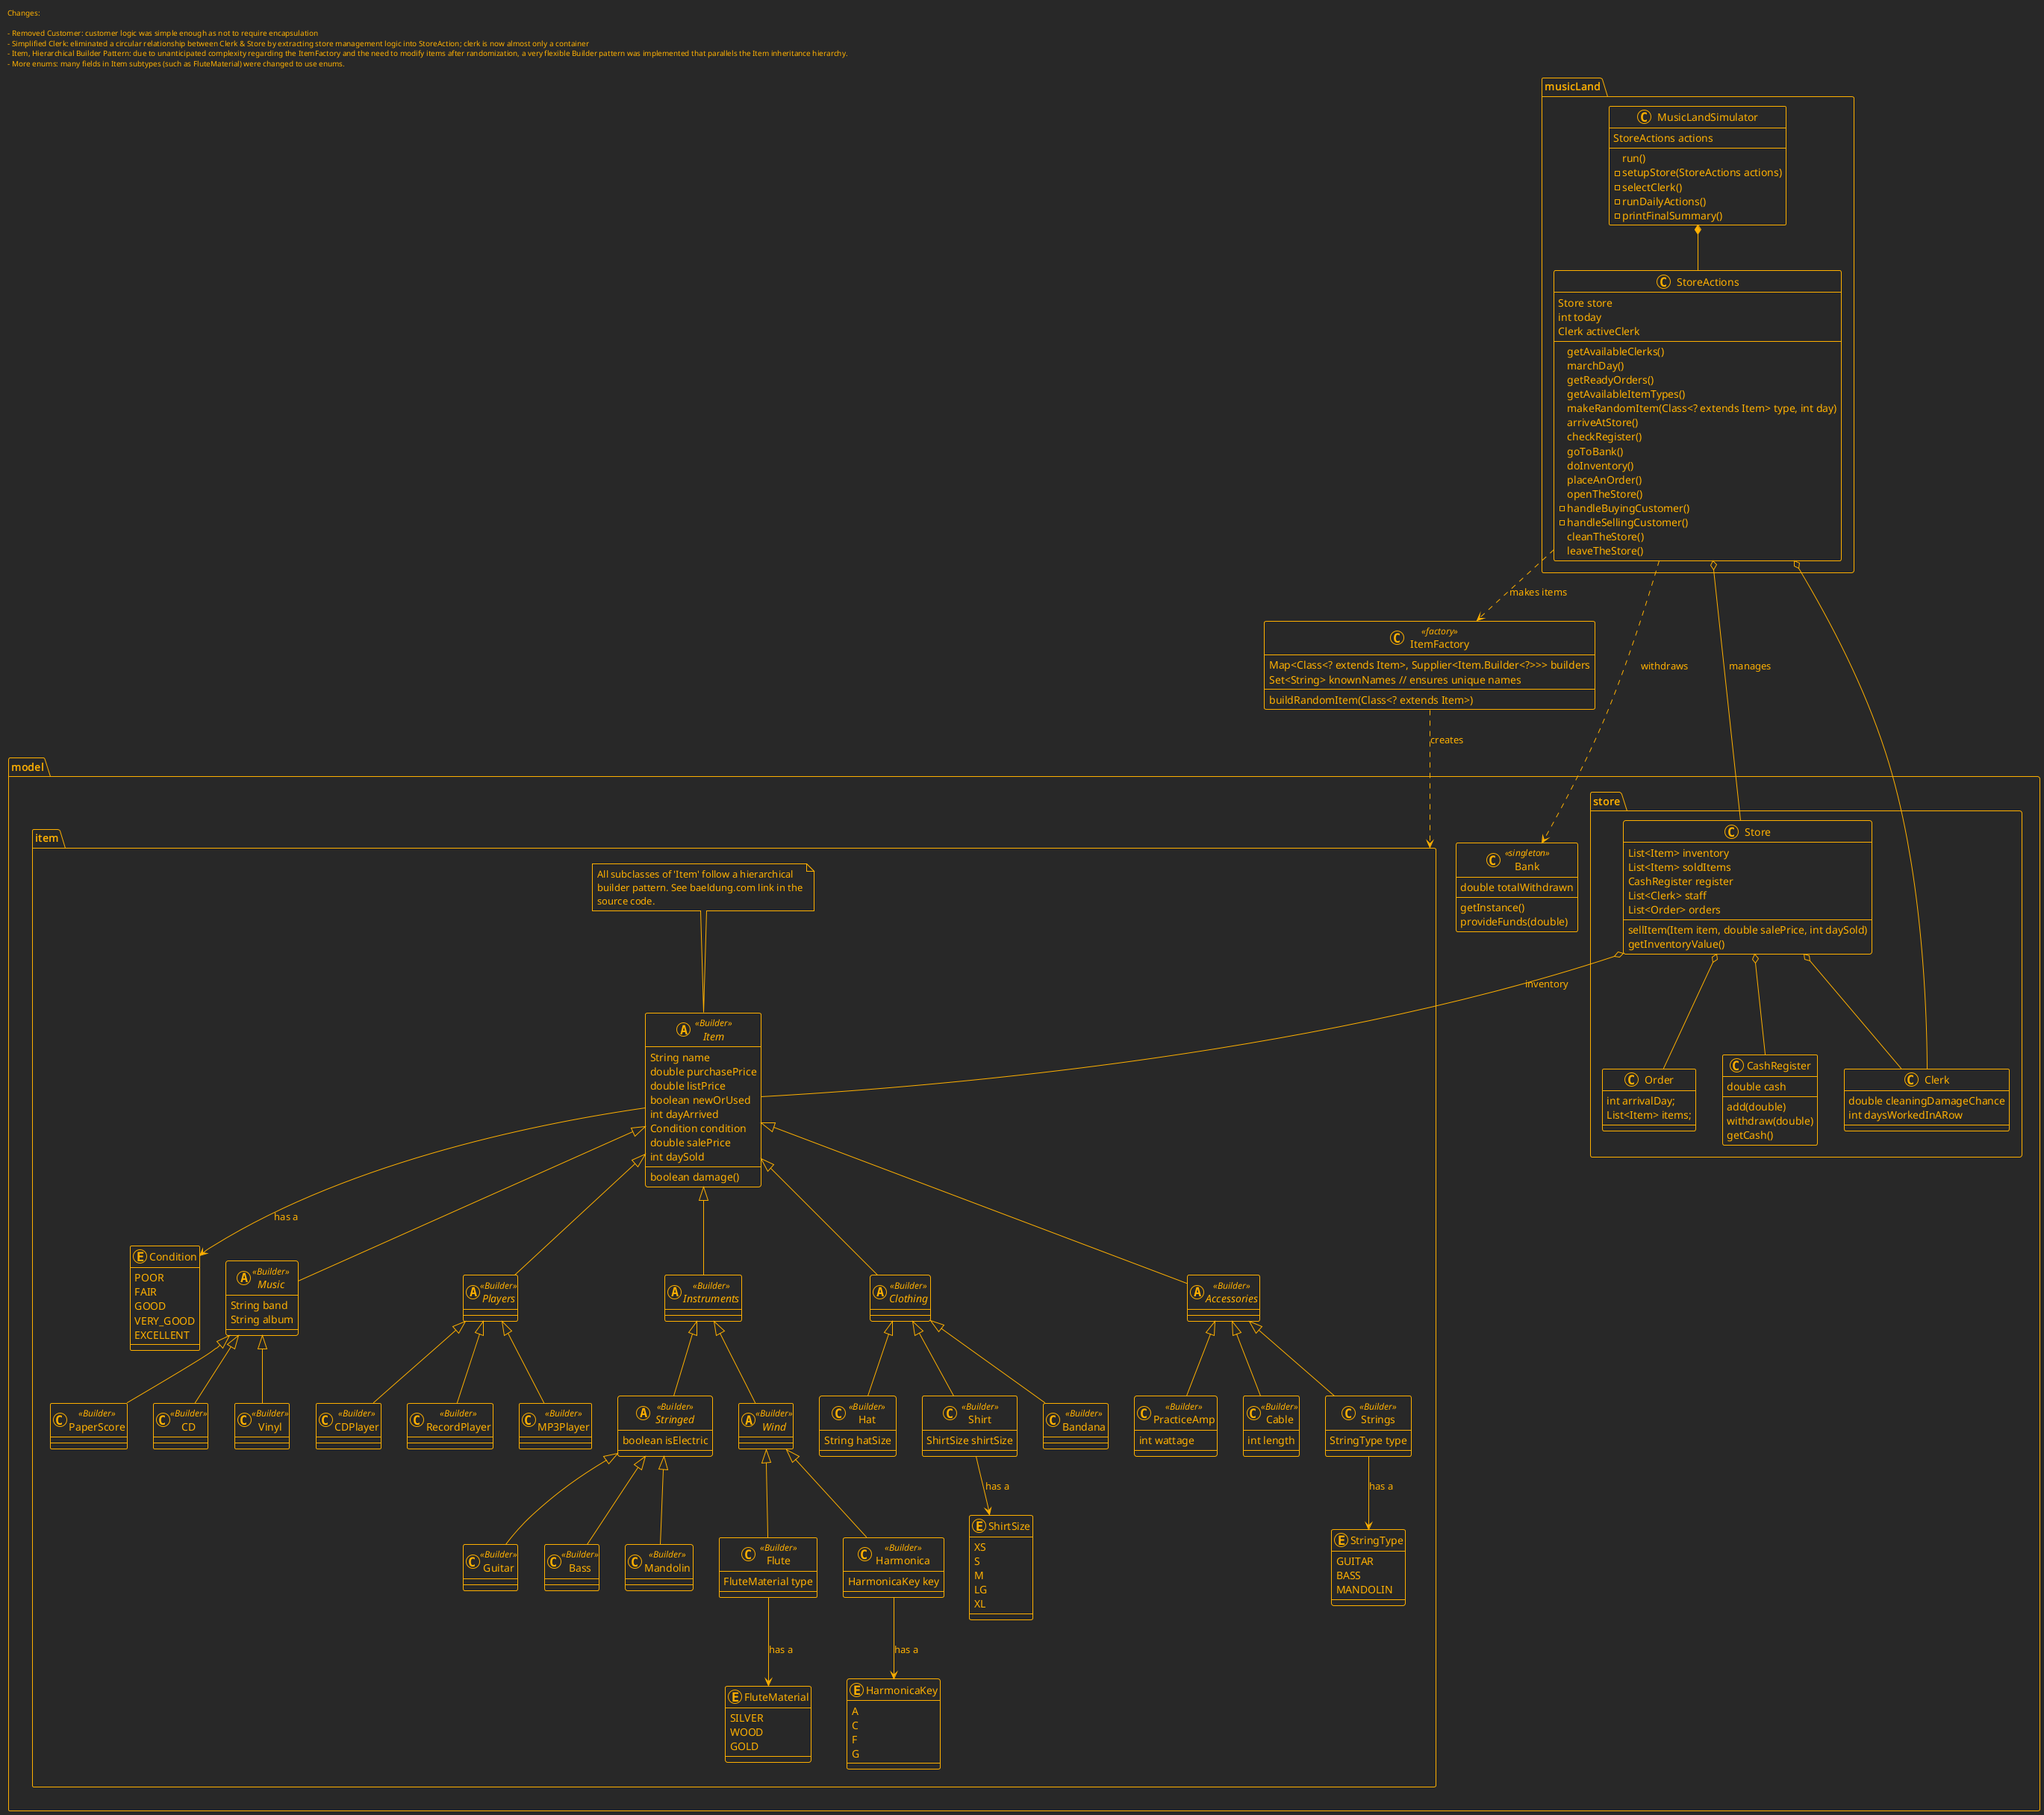
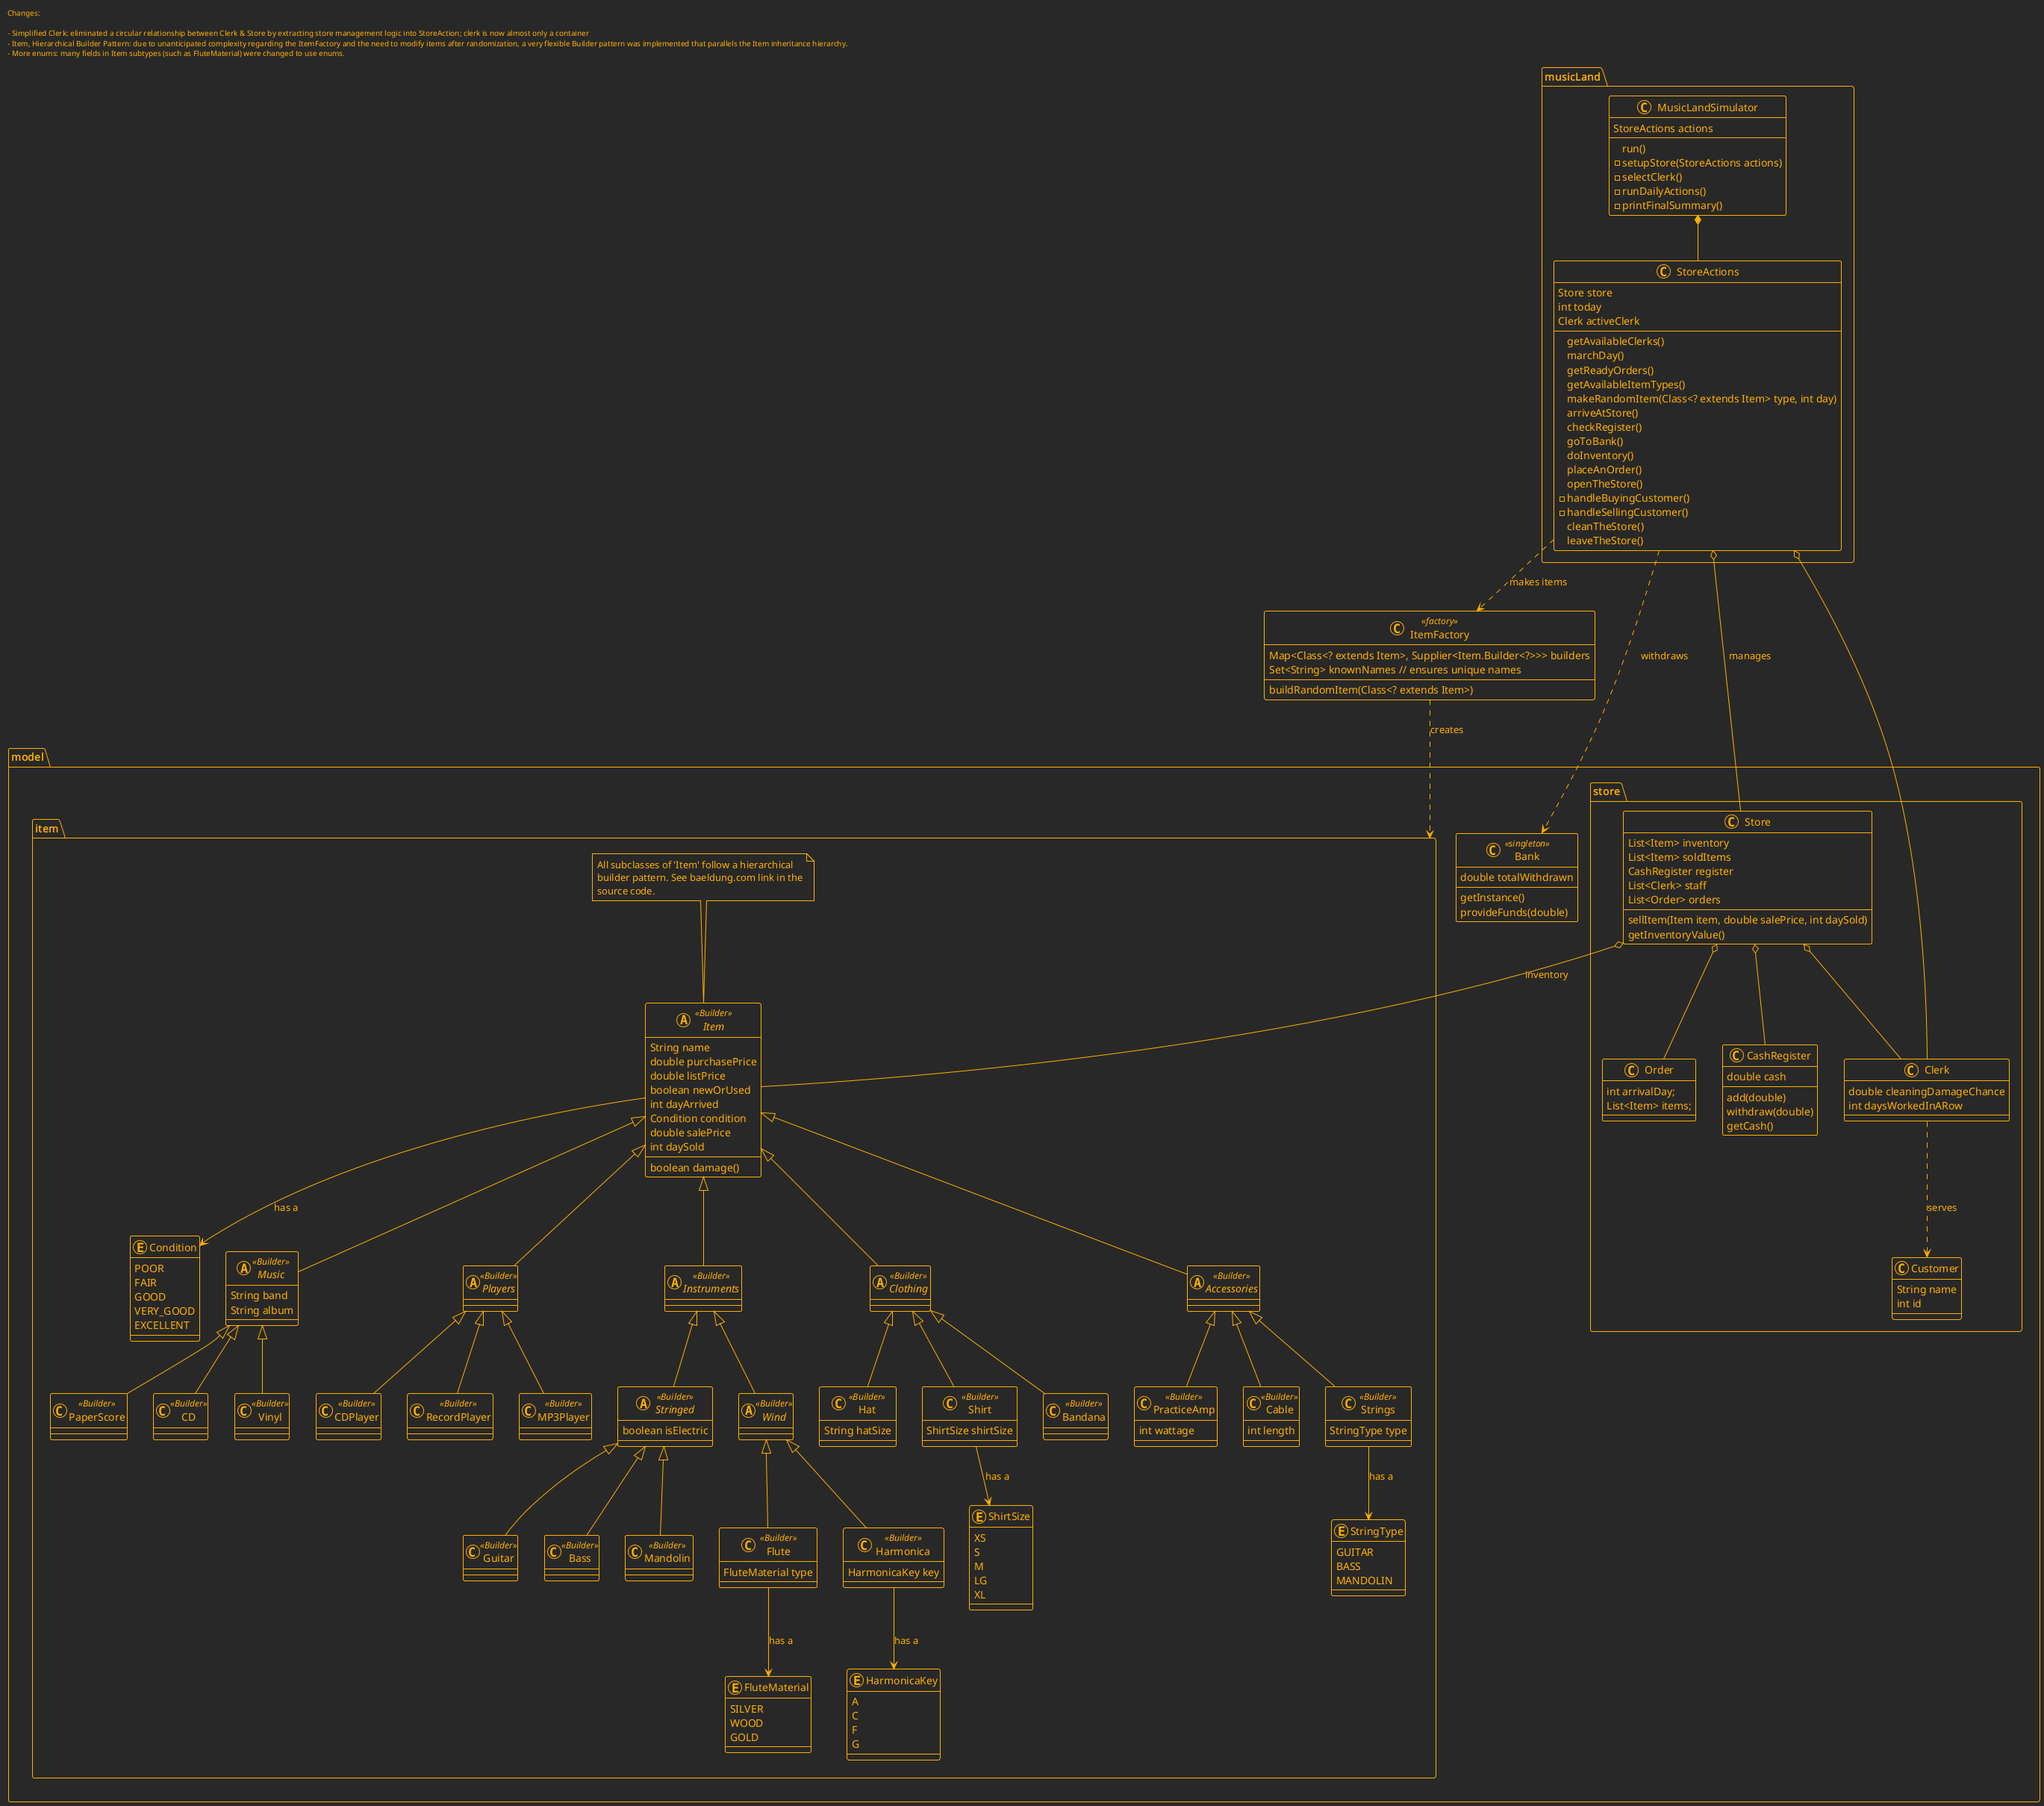
Revert "proj2: removed Customer, useless"
This reverts commit 34969f20d3599e95e19bef1cc8daf0eb5e92bab1.

diff --git a/src/main/java/ooad/project2/ItemFactory.java b/src/main/java/ooad/project2/ItemFactory.java
@@ -43,7 +43,7 @@ public class ItemFactory {
 
     // A map of item classes to a function that creates a new builder for that class.
     private static final Map<Class<? extends Item>, Supplier<Item.Builder<?>>> builders = new HashMap<>();
-    private static final List<Class<? extends Item>> itemTypes; // generated by builders
+    private static final List<Class<? extends Item>> itemTypes;
     private static final Set<String> knownNames = new HashSet<>();
 
     static {

diff --git a/src/main/java/ooad/project2/model/Customer.java b/src/main/java/ooad/project2/model/Customer.java
@@ -1,0 +1,17 @@
+package ooad.project2.model;
+
+/**
+ * Represents a customer who can buy or sell items.
+ */
+public class Customer {
+    private final int id;
+
+    public Customer(int id) {
+        this.id = id;
+    }
+
+    @Override
+    public String toString() {
+        return "Customer " + id;
+    }
+}
